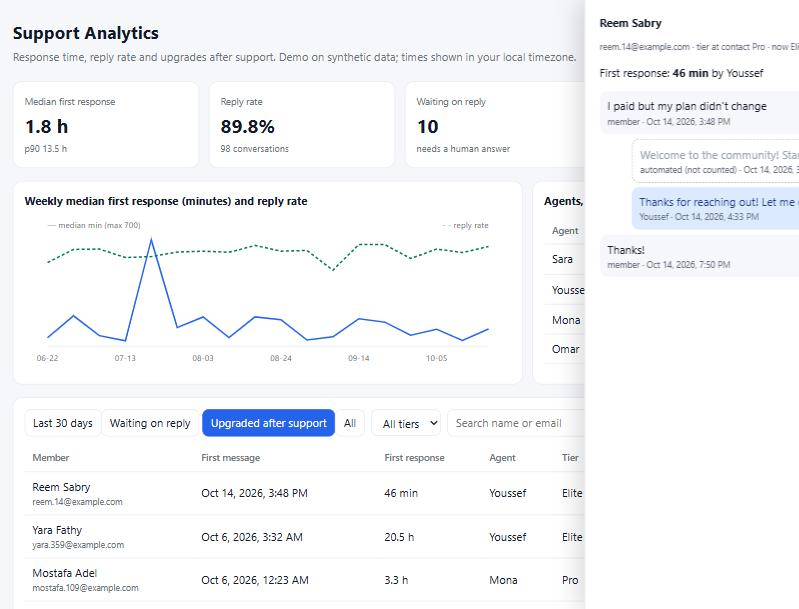
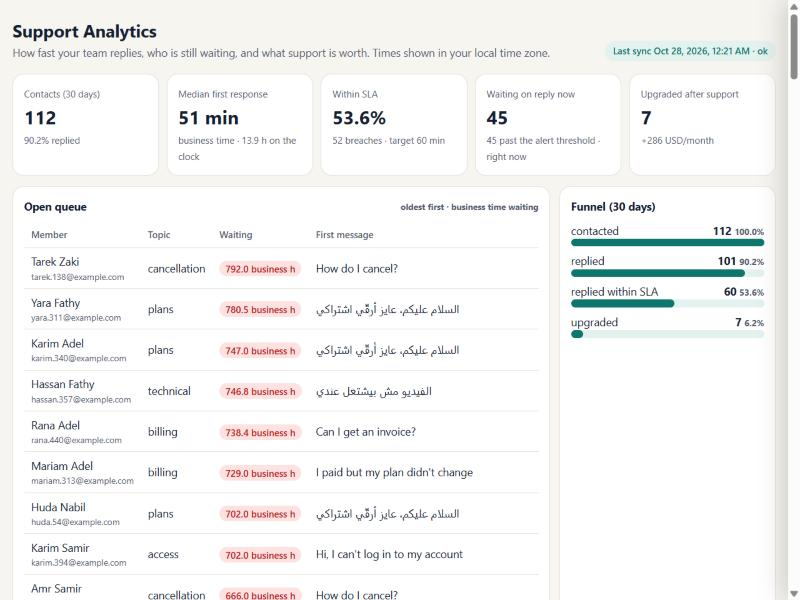
docs: metric definitions, data formats, dashboard screenshot

diff --git a/docs/METRICS.md b/docs/METRICS.md
@@ -1,0 +1,56 @@
+# Metric definitions
+
+Every definition below is enforced by an exact scenario in
+[`support_analytics/eval/scenarios/scenarios.json`](../support_analytics/eval/scenarios/scenarios.json).
+
+## Contacts
+
+A **contact** is one request from a member. A thread (DM, chat or ticket) can hold several contacts:
+a new contact starts when the member writes again **after the team replied and the thread was quiet for
+`contact_gap_hours`** (default 12). Measuring whole threads would hide slow replies to returning members.
+
+Threads where the member never wrote (broadcasts, reminders) are **not** contacts and are reported separately.
+
+## Response time
+
+| Metric | Definition |
+|---|---|
+| First response (calendar) | From the contact's first member message to the first **human** reply after it. |
+| First response (business) | The same interval counted only inside business hours, in the team's time zone, skipping non-working days and holidays. |
+| Automated messages | Messages matching `ingest/bot_patterns.txt` (verification codes, welcomes, reminders; English and Arabic, case- and whitespace-insensitive) are never a reply. |
+| Agent credit | The agent who sent the first human reply. |
+| Median / p90 | Nearest-rank percentiles over replied contacts. |
+
+Example: a message on Thursday 17:50 answered on Sunday 09:10 (team works Sunday to Thursday, 09:00-18:00)
+took 63 h 20 min on the calendar and **20 business minutes**.
+
+## SLA
+
+- **Met:** first response within `sla_first_response_minutes` business minutes (default 60).
+- **Breached:** answered later than the target, or still unanswered after the target.
+- An unanswered contact that is still inside the target is neither met nor breached yet.
+
+## Queue and alerts
+
+- **Waiting:** the latest message from a person is the member's, and it is not just a closing phrase
+  ("thanks", "شكرًا", "تمام"... configurable).
+- The **open queue** lists waiting contacts, oldest first, with their waiting time in business hours.
+- **Alert:** waiting longer than `alert_after_minutes` business minutes (default 120).
+
+## Topics
+
+The contact's first message is matched against a keyword taxonomy (English and Arabic, configurable).
+Topics are checked in order, so more specific ones come first ("cancel my subscription" is a cancellation,
+not a plan question). Anything unmatched is `other`.
+
+## Upgrades and revenue
+
+- **Upgrade after support:** a plan higher in `tier_order` starts within `upgrade_window_days` (default 14)
+  after the contact. A `trial` counts as paid access; cancellations and downgrades never count.
+- **MRR from upgrades:** `monthly_price[new plan] - monthly_price[plan at contact]`.
+- **Funnel:** contacted → replied → replied within SLA → upgraded.
+
+## Time
+
+All timestamps are stored in UTC; inputs with an offset are converted, inputs without one are rejected.
+The dashboard shows times in the viewer's local time zone; business-time maths uses the team's time zone.

diff --git a/docs/DATA.md b/docs/DATA.md
@@ -1,0 +1,54 @@
+# Bringing your own data
+
+The tool works with any community platform, helpdesk or chat tool that can export conversations.
+You need two files (a third is optional); [`examples/csv/`](../examples/csv) has a working sample.
+
+## CSV import
+
+```bash
+python -m support_analytics sync --csv ./my-export
+```
+
+| File | Columns |
+|---|---|
+| `members.csv` | `id, name, email, joined_at` |
+| `messages.csv` | `id, conversation_id, member_id, sender (member\|agent), agent_name, body, sent_at` |
+| `subscriptions.csv` (optional) | `member_id, tier, status (active\|trial\|canceled\|past_due\|expired), started_at` |
+
+- Timestamps are ISO-8601 **with an offset** (`2026-10-04T10:00:00+03:00` or `...Z`).
+- `conversation_id` groups messages of one thread (a DM, chat or ticket).
+- One row per plan change in `subscriptions.csv`; plan names are yours (set their order and prices in the config).
+- Every row is validated; the first invalid row stops the import and reports its file and line.
+- Re-importing is safe: rows are upserted by id, nothing is ever deleted.
+
+JSON works too (`--json export.json` with `members`, `messages`, `subscriptions` arrays of the same fields).
+
+## Push API
+
+For live data, push batches from your platform's webhooks or a small script:
+
+```bash
+export SA_API_KEYS='["a-long-random-key"]'
+curl -X POST http://localhost:8000/api/ingest \
+  -H "X-API-Key: a-long-random-key" -H "Content-Type: application/json" \
+  -d @batch.json
+```
+
+- Keys are compared in constant time; the endpoint is disabled when no key is configured.
+- Payloads are size-limited (`SA_MAX_INGEST_BYTES`, default 5 MB) and fully validated.
+- Messages must refer to members that exist in the store or in the same batch.
+- `GET /api/sync/status` returns the latest runs and a **watermark** (newest message time) so a pusher
+  can send only what is new.
+
+## Scheduled sync
+
+```bash
+SA_SYNC_SOURCE=csv:/data/exports SA_SYNC_INTERVAL_S=900 uvicorn support_analytics.api.app:app
+```
+
+The API re-imports the source every 15 minutes. Failed runs are logged in `sync_runs` and retried next time.
+
+## Configuration
+
+Copy [`workspace.example.json`](../workspace.example.json), adjust business hours, holidays, SLA, topics,
+plan order and prices, and point `SA_CONFIG_PATH` at it.
